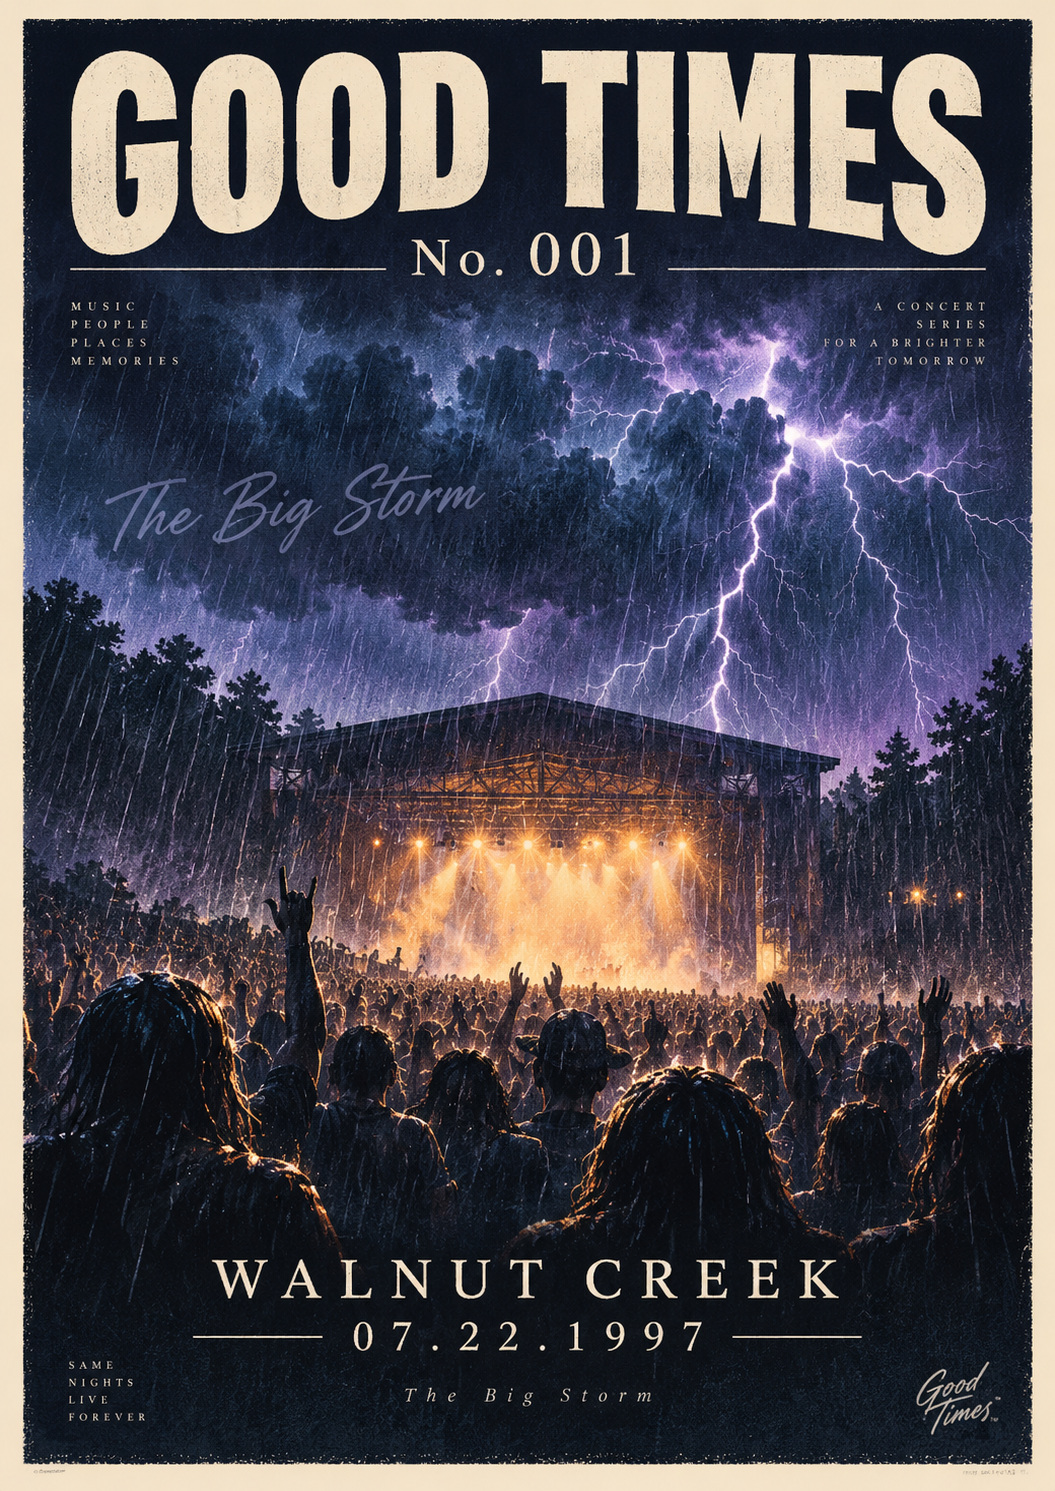
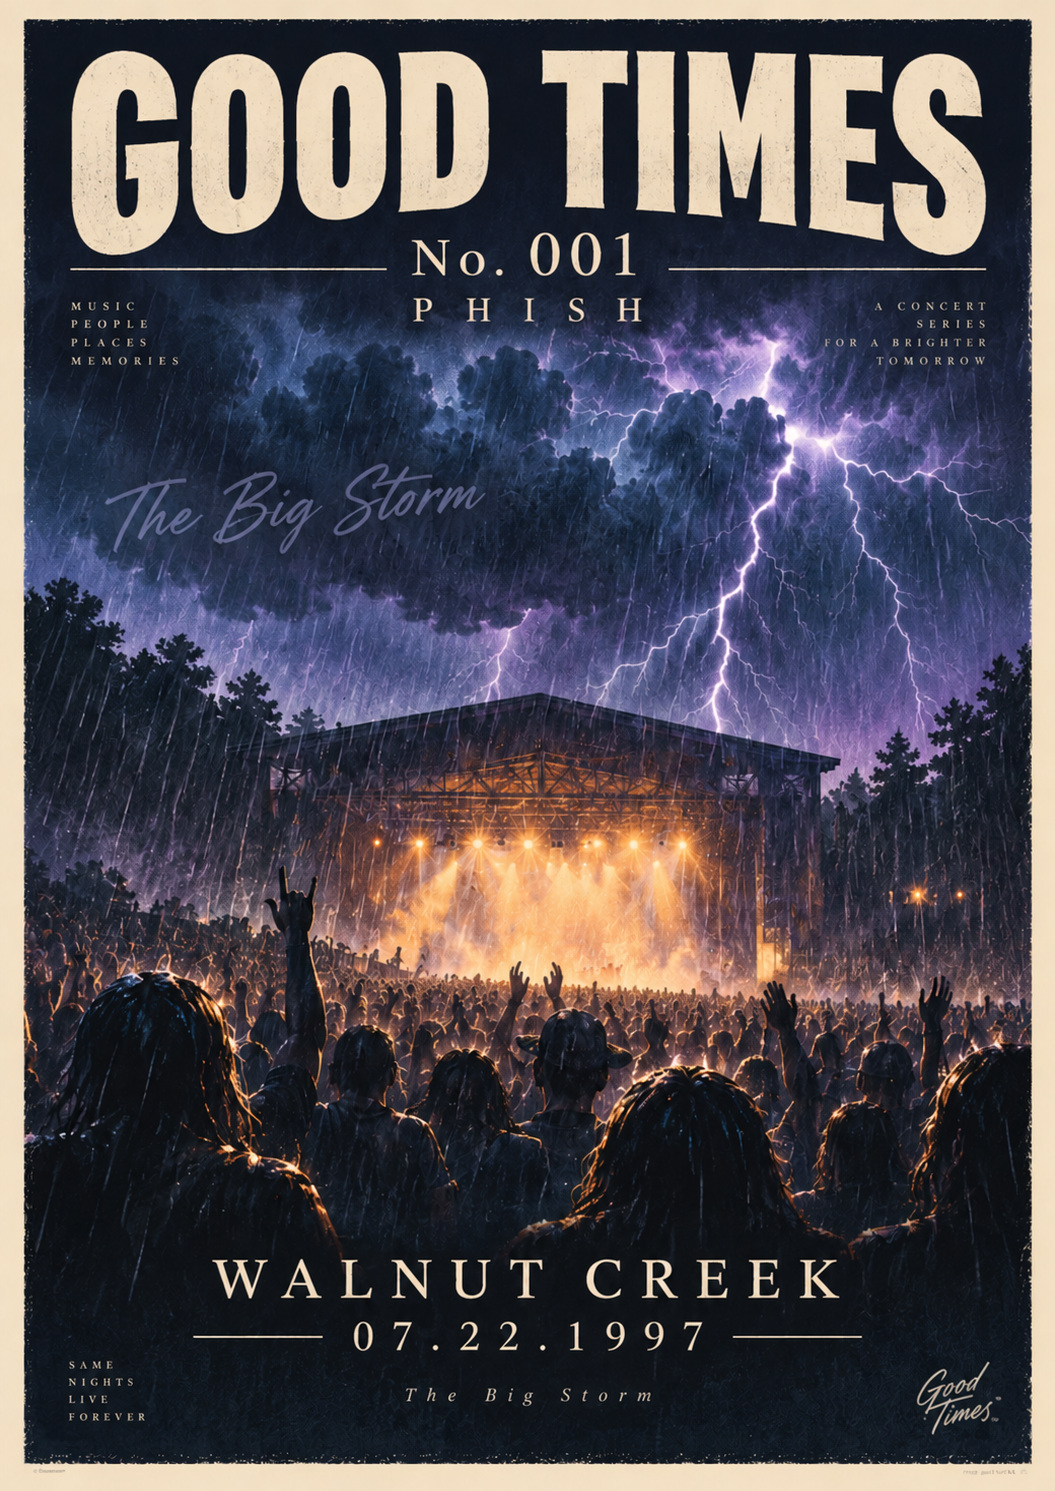
Add visible independence statement to every poster

diff --git a/index.html b/index.html
@@ -47,7 +47,7 @@ section{padding:90px 0}.section-head{max-width:720px;margin:0 auto 44px;text-ali
 <section class="editorial-intro"><div class="container editorial-copy"><div class="kicker">The feeling stays</div><h2>You were there.</h2><p>You remember the place. The people. The weather. The moment the lights went down. Years later, sometimes all it takes is seeing one date to feel everything again.<strong>Good Times turns those memories into art made to live on your wall.</strong></p><p class="story-stack">A place. A date. A story.</p></div></section>
 <section class="collection-section" id="collection"><div class="container"><div class="collection-head"><div><div class="kicker">The permanent numbered series</div><h2>THE GOOD TIMES COLLECTION</h2></div><p><strong>Every number tells a story.</strong> Once a number belongs to a memory, it is never reused. The collection grows one unforgettable moment at a time.</p></div><article class="release-feature"><div class="release-copy"><div class="release-number">GOOD TIMES No. 001</div><h3>Walnut<br>Creek</h3><div class="release-date">07.22.1997 · THE BIG STORM</div><p class="release-story">A first show. A summer thunderstorm. One night that never left.</p><div class="section-actions"><a class="btn primary" href="#archive">VIEW No. 001</a></div></div><figure class="collection-art"><img src="assets/good-times-no-001-final.jpg" alt="The Big Storm at Walnut Creek in Raleigh, North Carolina — Good Times Number 001" width="1055" height="1491"></figure></article></div></section>
 <section class="archive-section" id="archive"><div class="container"><div class="archive-lede"><div><div class="kicker">THE ARCHIVE</div><div class="archive-statement">Good times don't disappear here.</div></div><div class="archive-copy"><p>Every numbered release becomes part of the permanent Good Times Archive. Browse the places. Browse the dates. Read the stories. From No. 001 onward, the Archive grows with every memory we preserve.</p><strong>Every number tells a story.</strong></div></div><div class="archive-entry"><span>No. 001</span><img class="archive-thumb" src="assets/good-times-no-001-final.jpg" alt="The Big Storm at Walnut Creek"><div><strong>Walnut Creek · 07.22.1997</strong><br><span>The Big Storm</span></div><a class="btn secondary" href="#collection">VIEW No. 001</a></div></div></section>
-<section class="respect-section" id="respect"><div class="container"><div class="respect-grid"><div><div class="kicker">Our promise</div><h2>MADE FOR MEMORIES.<br>BUILT WITH RESPECT.</h2></div><div class="respect-copy"><p>We love concert art. We respect the illustrators, screen printers, designers, photographers and independent artists whose work has helped define live music culture for generations.</p><p><strong>Good Times isn't here to replace them.</strong> When official or artist-created artwork is available, we encourage you to support the artists who made it.</p><p>But sometimes the poster from your night disappeared twenty years ago. Sometimes it sold out before you had the chance. Sometimes the moment you want to remember never had a poster at all.</p><p><strong>That's where Good Times comes in.</strong> We create new, original artwork inspired by the memory of a place, a date and an experience. Because there should be room on the wall for both.</p><div class="section-actions"><a class="btn secondary" href="#about">OUR STORY</a></div></div></div><div class="brand-statement">Support artists. Collect memories. Remember the night.</div></div></section>
+<section class="respect-section" id="respect"><div class="container"><div class="respect-grid"><div><div class="kicker">Our promise</div><h2>MADE FOR MEMORIES.<br>BUILT WITH RESPECT.</h2></div><div class="respect-copy"><p>We love concert art. We respect the illustrators, screen printers, designers, photographers and independent artists whose work has helped define live music culture for generations.</p><p><strong>Good Times isn't here to replace them.</strong> When official or artist-created artwork is available, we encourage you to support the artists who made it.</p><p>But sometimes the poster from your night disappeared twenty years ago. Sometimes it sold out before you had the chance. Sometimes the moment you want to remember never had a poster at all.</p><p><strong>That's where Good Times comes in.</strong> We create new, original artwork inspired by the memory of a place, a date and an experience. Because there should be room on the wall for both.</p><p><strong>Visible on every finished poster.</strong> Each print includes a small, readable edge statement identifying it as independent Good Times artwork that is not affiliated with or endorsed by the performer or venue.</p><div class="section-actions"><a class="btn secondary" href="#about">OUR STORY</a></div></div></div><div class="brand-statement">Support artists. Collect memories. Remember the night.</div></div></section>
 <section class="private-section" id="your-good-time"><div class="container"><div class="private-grid"><div><div class="kicker">Custom memory art</div><h2>YOUR GOOD TIME</h2><p style="color:var(--mint);font-size:20px;font-weight:800">Some memories belong only to you.</p></div><div class="private-copy"><p>First concerts, weddings, road trips, a kid's first game, weekends with friends, memorials, and the moments that changed you—Good Times can turn them into private original art.</p><p><strong>Your custom artwork is private by default.</strong> If sharing is added later, you will always choose whether to share artwork only, artwork with its story, share anonymously, or keep everything private.</p><div class="privacy-options"><span>Artwork only</span><span>Artwork + story</span><span>Share anonymously</span><span>Keep everything private</span></div><a class="btn primary" href="#find">CREATE YOUR GOOD TIME</a></div></div></div></section>
 <section id="how"><div class="container"><div class="section-head"><div class="kicker">From setlist to wall</div><h2>The show is only the beginning.</h2><p>GOOD TIMES captures the part no official poster can: what the night meant to you.</p></div><div class="steps"><div class="card"><div class="num">01 — THE SHOW</div><h3>Name the night</h3><p>Add the artist, venue, and date—then the song or moment that still brings you back.</p></div><div class="card"><div class="num">02 — YOUR STORY</div><h3>Add what mattered</h3><p>First show, best friend, rainstorm, miracle ticket—those details make the artwork yours.</p></div><div class="card"><div class="num">03 — THE ART</div><h3>Direct the feeling</h3><p>Choose a visual world and a type composition. The art stays center stage while the exact details support it.</p></div></div></div></section>
 <section id="find" class="find"><div class="container"><div class="section-head"><div class="kicker">Build your memory</div><h2>Which show are we making?</h2><p>Start with the basics, then tell us the part no setlist database can know.</p></div><div class="finder" id="memory-step"><div class="project-restored" id="project-restored" role="status"></div><div class="quick-picks"><span class="chip">Any jam band</span><span class="chip">First show</span><span class="chip">Favorite jam</span><span class="chip">Outdoor summer night</span></div><div class="form-grid"><div class="field full"><label for="artist">Artist or band</label><input id="artist" placeholder="The artist you saw" autocomplete="off"></div><div class="field"><label for="date">Show date</label><input id="date" type="date"></div><div class="field"><label for="venue">Venue</label><input id="venue" placeholder="Madison Square Garden"></div><div class="field"><label for="city">City / State</label><input id="city" placeholder="New York, NY"></div><div class="field"><label for="song">The song or moment</label><input id="song" placeholder="That jam, the encore, the lights..."></div><div class="field full"><label for="memory">What made the night yours?</label><textarea id="memory" placeholder="Who were you with? What happened? What can you still see when you close your eyes?"></textarea><div class="note"><strong style="color:#bffbec">More detail creates better artwork.</strong> Include the people, weather, colors, lights, feelings, funny moments, and anything else you remember.</div></div><div class="exclusion-note">GOOD TIMES creates independent original artwork without official logos, album art, mascots, or performer likenesses. Grateful Dead-related projects are not accepted.</div></div><button class="btn primary" type="button" onclick="openBuilder()">Choose my poster style →</button><span class="draft-status" id="draft-status">Draft saves automatically</span><div class="error" id="form-error">Add an artist, show date, and venue before choosing a style.</div><div class="note">This browser keeps a local draft. Use the private save below to return from any device.</div></div><div class="project-save"><div class="project-save-row"><div class="project-save-copy"><strong>Keep this project safe</strong><span>Create a permanent private link. Anyone with the link can open this project, so keep it somewhere trusted.</span></div><div class="project-save-actions"><button class="btn secondary" id="project-save-button" type="button" onclick="savePermanentProject(true)">Save private project</button><button class="btn secondary" id="project-copy-button" type="button" onclick="copyProjectLink()" hidden>Copy private link</button></div></div><div class="project-link" id="project-link" aria-live="polite"></div><div class="project-save-error" id="project-save-error" role="alert"></div></div>

diff --git a/api/finalize-artwork.js b/api/finalize-artwork.js
@@ -79,7 +79,7 @@ function pathText(value, x, y, fontSize, { letterSpacing = 0, anchor = "start", 
     width += (glyphs[index].advanceWidth || POSTER_FONT.unitsPerEm) * scale;
     if (index < glyphs.length - 1) width += letterSpacing;
   }
-  let cursor = anchor === "end" ? x - width : x;
+  let cursor = anchor === "end" ? x - width : anchor === "middle" ? x - width / 2 : x;
   const paths = [];
   for (let index = 0; index < glyphs.length; index += 1) {
     const glyph = glyphs[index];
@@ -121,6 +121,8 @@ export function buildTypographySvgV2({ artist, venue, city, date, song, style, l
   const compactDetailSize = fitSize(detail, 3000, 88, 58, 5);
   const songLabel = safeSong ? `MEMORY: ${safeSong}` : "ONE NIGHT. YOUR STORY.";
   const songSize = fitSize(songLabel, 2860, 92, 58, 4);
+  const independenceLine = "INDEPENDENT ARTWORK BY GOOD TIMES  •  NOT AFFILIATED WITH OR ENDORSED BY THE PERFORMER OR VENUE";
+  const independenceSize = fitSize(independenceLine, 3140, 34, 26, 2);
 
   const layouts = {
     gallery: `
@@ -156,13 +158,14 @@ export function buildTypographySvgV2({ artist, venue, city, date, song, style, l
   };
 
   return Buffer.from(`
-    <svg width="${WIDTH}" height="${HEIGHT}" viewBox="0 0 ${WIDTH} ${HEIGHT}" xmlns="http://www.w3.org/2000/svg">
+    <svg width="${WIDTH}" height="${HEIGHT}" viewBox="0 0 ${WIDTH} ${HEIGHT}" xmlns="http://www.w3.org/2000/svg" data-independence-statement="${independenceLine}">
       <defs>
         <linearGradient id="topShade" x1="0" y1="0" x2="0" y2="1"><stop offset="0" stop-color="#05030d" stop-opacity=".82"/><stop offset="1" stop-color="#05030d" stop-opacity="0"/></linearGradient>
         <linearGradient id="bottomShade" x1="0" y1="0" x2="0" y2="1"><stop offset="0" stop-color="#05030d" stop-opacity="0"/><stop offset=".45" stop-color="#05030d" stop-opacity=".58"/><stop offset="1" stop-color="#05030d" stop-opacity=".9"/></linearGradient>
       </defs>
       <rect x="92" y="92" width="3416" height="4616" rx="14" fill="none" stroke="#fff" stroke-opacity=".28" stroke-width="7"/>
       ${layouts[selectedLayout]}
+      ${pathText(independenceLine, 1800, 4725, independenceSize, { letterSpacing: 2, anchor: "middle", fill: "#fff" })}
     </svg>
   `);
 }
